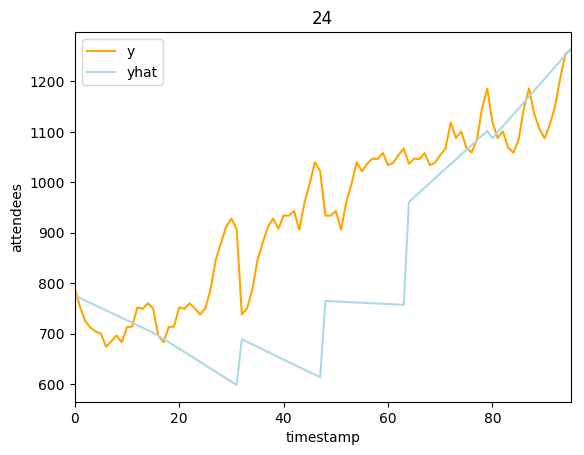
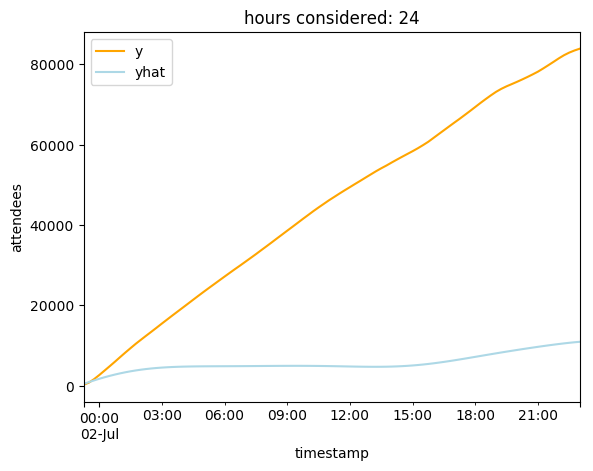
lol

diff --git a/ts-fbprophet.py b/ts-fbprophet.py
@@ -1,37 +1,41 @@
-import matplotlib
+import datetime
+
+import dateutil
 from fbprophet import Prophet
 import pandas as pd
-import matplotlib as plt
+import matplotlib.pyplot as plt
 from sklearn.metrics import mean_squared_error, r2_score
 import numpy as np
-matplotlib.rcParams['axes.color_cycle'] = ['orange', 'lightblue', 'grey']
+plt.rcParams['axes.color_cycle'] = ['orange', 'lightblue', 'grey']
 
 # setup forecast
 fc_hours_to_predict = 2 # how far forecast looks into future
 # setup cv
-cv_horizon_amount = 4       # how far cv looks into future
+cv_horizon_amount = 24       # how far cv looks into future
 cv_horizon_unit = 'hour'    # units: sec, minute, hour, day, week, month
+hr_range_arr = [24, 12, 8, 4, 2, 1] # state model accuracy for these hours for RMSE, R^2, MAPE
 
 # setup data
 slices_per_hour = 4         # 15m = 4, 30m = 2, 60m = 1
+startdate = dateutil.parser.parse('2015-06-29 00:00:00')
+enddate = dateutil.parser.parse('2015-07-05 00:00:00')
 nrows = 100
 skiprows = range(1, 150)
-datasets = ['raw15_SLICE15M_13.csv']
-#datasets = ['raw15_SLICE15M_13.csv', 'raw15_SLICE15M_10.csv', 'raw15_SLICE15M_3.csv']
+datasets = ['raw15_SLICE15M_13.csv', 'raw15_SLICE15M_10.csv', 'raw15_SLICE15M_3.csv']
 basepath = 'data/'
 results = []
 
-if nrows < cv_horizon_amount*slices_per_hour*3:
-    raise ValueError("nrows must be > cv_horizon_amount*slices_per_hour*3")
 
 # create forecast model and plot, save plot under /img
 def forecast(data, filename):
     # dataset
-    df = pd.read_csv(data, nrows=nrows, skiprows=skiprows)
-    # prep for Prophet
+    df = pd.read_csv(data, nrows=nrows, skiprows=skiprows, parse_dates=['TIMESTAMP'])
+    # prep cols for Prophet
     df.columns = ['ds', 'y']
-    model = Prophet()
+    # set date range
+    df = df[(df.ds >= startdate & df.ds <= enddate)]
     # predict
+    model = Prophet()
     model.fit(df)
     print('model fitted.')
     future = model.make_future_dataframe(periods=fc_hours_to_predict * 4, freq='H')
@@ -61,7 +65,7 @@ def crossvalidate(model, filename):
 
 def evaluate_cv(df_cv, filename):
     # report scores
-    for hr_range in [24, 12, 8, 4, 2, 1]:
+    for hr_range in hr_range_arr:
         # cut data
         df_cv = df_cv.iloc[0:hr_range*slices_per_hour]
         df_cv = df_cv[['ds', 'y', 'yhat']]
@@ -76,10 +80,10 @@ def evaluate_cv(df_cv, filename):
         print(score)
 
         # plot
-        df_cv = df_cv.set_index('ds')   # set timestamp as index
-        df_cv = df_cv.cumsum()
+        df_plot = df_cv.set_index('ds')   # set timestamp as index
+        df_plot = df_plot.cumsum()
         plt.figure
-        df_cv.plot()
+        df_plot.plot()
         plt.xlabel('timestamp')
         plt.ylabel('attendees')
         plt.title('hours considered: ' + str(hr_range))
